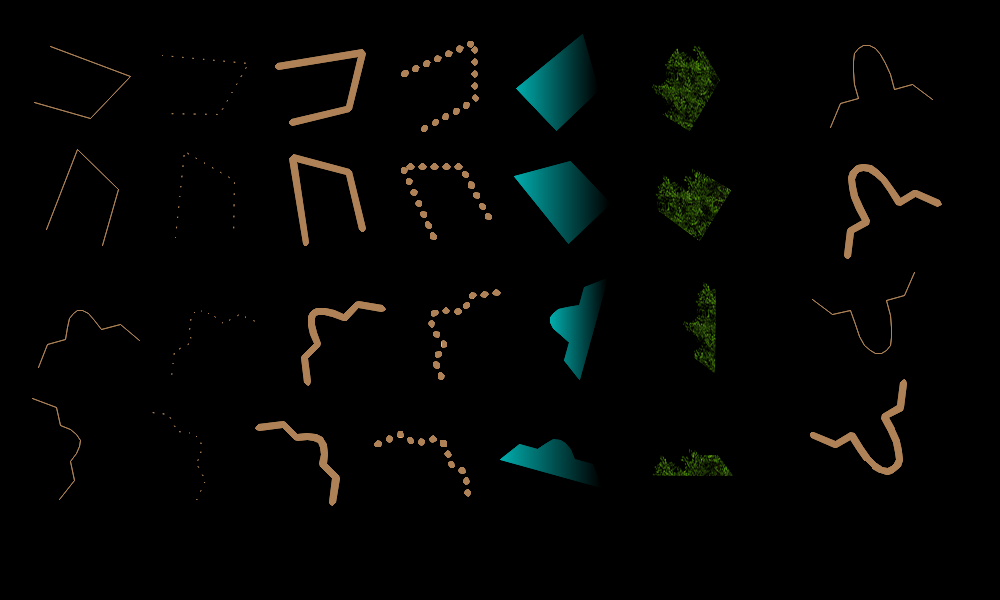
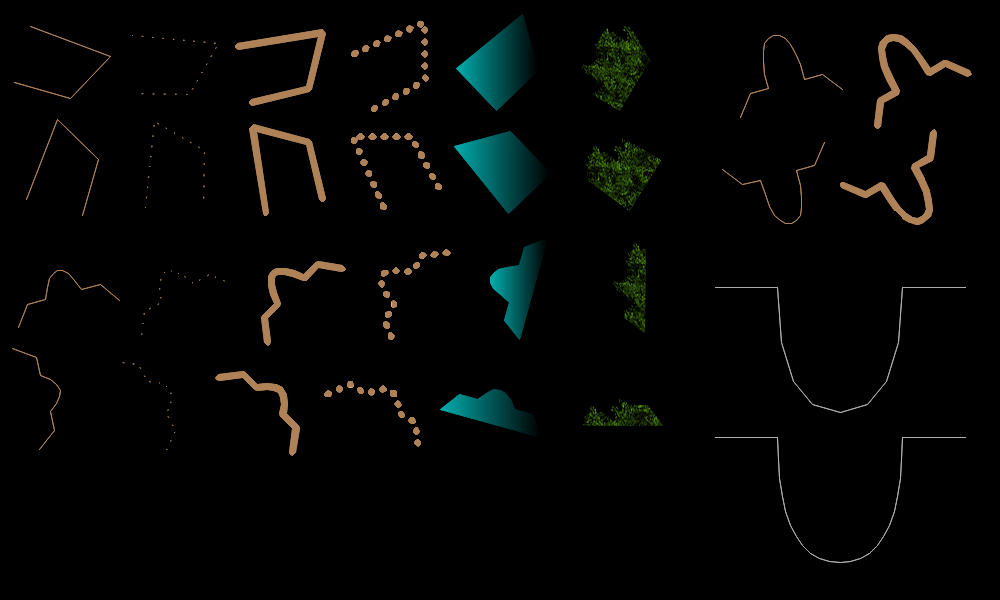
Improving Path2D

diff --git a/src/Pt-Gfx/tests/ImagePainterTest2_Draw_Path.cpp b/src/Pt-Gfx/tests/ImagePainterTest2_Draw_Path.cpp
@@ -6,7 +6,7 @@ static void testDrawPath_drawRow(
 {
     matrix2d.rotateAboutOrigin(15);
     matrix2d.push();
-    matrix2d.translate(80 + 120 * col, 80 + 120 * row);
+    matrix2d.translate(60 + 110 * col, 60 + 110 * row);
     ip2->setPen(penThinSolid);
     ip2->drawPath(path2d, matrix2d, false);
     matrix2d.pop();
@@ -14,7 +14,7 @@ static void testDrawPath_drawRow(
 
     matrix2d.rotateAboutOrigin(15);
     matrix2d.push();
-    matrix2d.translate(80 + 120 * col, 80 + 120 * row);
+    matrix2d.translate(60 + 110 * col, 60 + 110 * row);
     ip2->setPen(penThinDot);
     ip2->drawPath(path2d, matrix2d, false);
     matrix2d.pop();
@@ -22,7 +22,7 @@ static void testDrawPath_drawRow(
 
     matrix2d.rotateAboutOrigin(15);
     matrix2d.push();
-    matrix2d.translate(80 + 120 * col, 80 + 120 * row);
+    matrix2d.translate(60 + 110 * col, 60 + 110 * row);
     ip2->setPen(penThickSolid);
     ip2->drawPath(path2d, matrix2d, false);
     matrix2d.pop();
@@ -30,7 +30,7 @@ static void testDrawPath_drawRow(
 
     matrix2d.rotateAboutOrigin(15);
     matrix2d.push();
-    matrix2d.translate(80 + 120 * col, 80 + 120 * row);
+    matrix2d.translate(60 + 110 * col, 60 + 110 * row);
     ip2->setPen(penThickDot);
     ip2->drawPath(path2d, matrix2d, false);
     matrix2d.pop();
@@ -38,7 +38,7 @@ static void testDrawPath_drawRow(
 
     matrix2d.rotateAboutOrigin(15);
     matrix2d.push();
-    matrix2d.translate(80 + 120 * col, 80 + 120 * row);
+    matrix2d.translate(60 + 110 * col, 60 + 110 * row);
     ip2->setBrush(brush1);
     ip2->fillPath(path2d, matrix2d);
     matrix2d.pop();
@@ -46,7 +46,7 @@ static void testDrawPath_drawRow(
 
     matrix2d.rotateAboutOrigin(15);
     matrix2d.push();
-    matrix2d.translate(80 + 120 * col, 80 + 120 * row);
+    matrix2d.translate(60 + 110 * col, 60 + 110 * row);
     ip2->setBrush(brush2);
     ip2->fillPath(path2d, matrix2d);
     matrix2d.pop();
@@ -61,19 +61,18 @@ static void testDrawPath_drawCol(
 {
     matrix2d.rotateAboutOrigin(15);
     matrix2d.push();
-    matrix2d.translate(150 + 120 * col, 70 + 120 * row);
+    matrix2d.translate(60 + 120 * col, 60 + 120 * row);
     ip2->setPen(penThinSolid);
     ip2->drawPath(path2d, matrix2d, false);
     matrix2d.pop();
-    ++row;
+    ++col;
 
     matrix2d.rotateAboutOrigin(15);
     matrix2d.push();
-    matrix2d.translate(150 + 120 * col, 70 + 120 * row);
+    matrix2d.translate(60 + 120 * col, 60 + 120 * row);
     ip2->setPen(penThickSolid);
     ip2->drawPath(path2d, matrix2d, false);
     matrix2d.pop();
-    ++row;
 }
 
 static void testDrawPath(const char* title, Image& image, Painter& painter, const Brush& brush1, const Brush& brush2)
@@ -144,9 +143,9 @@ static void testDrawPath(const char* title, Image& image, Painter& painter, cons
     // Fourth row
     testDrawPath_drawRow(ip2, matrix2d, path2d, row, col, penThinSolid, penThinDot, penThickSolid, penThickDot, brush1, brush2);
 
+    //
     // Rightmost part of the image
-    row = 0;
-    col = 6;
+    //
 
     // Create a new path
     path2d.clear    ();
@@ -162,6 +161,9 @@ static void testDrawPath(const char* title, Image& image, Painter& painter, cons
     matrix2d.identity();
     matrix2d.translate(-50, -25);
     matrix2d.scaleAboutOrigin(0.75f, 1.0f);
+
+    row = 0;
+    col = 6;
 
     testDrawPath_drawCol(ip2, matrix2d, path2d, row, col, penThinSolid, penThickSolid);
 
@@ -180,7 +182,41 @@ static void testDrawPath(const char* title, Image& image, Painter& painter, cons
     matrix2d.translate(-50, -25);
     matrix2d.scaleAboutOrigin(0.75f, 1.0f);
 
+    row = 1;
+    col = 6;
+
     testDrawPath_drawCol(ip2, matrix2d, path2d, row, col, penThinSolid, penThickSolid);
+
+    //
+    // The effect of smoothness
+    //
+    row = 2;
+    col = 6;
+
+    path2d.clear    ();
+    path2d.beginPath();
+    path2d.moveTo   (10.0, 2.0      ); // CCW
+    path2d.lineTo   ( 7.5, 2.0      );
+    path2d.arcTo    ( 2.5, 2.0, -5.0);
+    path2d.lineTo   ( 0.0, 2.0      );
+    path2d.endPath  ();
+
+    matrix2d.identity();
+    matrix2d.translate(-5.0, -2.5);
+    matrix2d.scaleAboutOrigin(25, 25);
+
+    matrix2d.push();
+    matrix2d.translate(60 + 130 * col, 150 * row);
+    ip2->setPen( Color::fromRgb8(255, 255, 255, 175) );
+    ip2->drawPath(path2d, matrix2d, false, 0);
+    matrix2d.pop();
+    ++row;
+
+    matrix2d.push();
+    matrix2d.translate(60 + 130 * col, 150 * row);
+    ip2->setPen( Color::fromRgb8(255, 255, 255, 175) );
+    ip2->drawPath(path2d, matrix2d, false, 20);
+    matrix2d.pop();
 
     sdlPreviewRGB888Buffer(title, image.data(), image.width(), image.height(), !!ip2);
 }

diff --git a/src/Pt-Gfx/tests/ImagePainterTest2_Benchmark.cpp b/src/Pt-Gfx/tests/ImagePainterTest2_Benchmark.cpp
@@ -309,14 +309,14 @@ static void doBenchmark(CompositionMode cm)
     // Path
     if(BENCHMARK_RESULT_HTML || BENCHMARK_PATH) {
         time1 = benchDrawPath<ImagePainter2, false>(BENCHMARK_LOOP_COUNT, bmBrushGradientH, bmBrushTextureT, cm, AntiAliasingMode::None);
-        std::clog << "    Path NOAA (NO RASTERISATION)     @ ImagePainter2 = " << std::setw(6) << time1 << std::endl;
+        std::clog << "    Path NOAA (28 SHAPES, NO RASTER) @ ImagePainter2 = " << std::setw(6) << time1 << std::endl;
         time2 = benchDrawPath<ImagePainter2, false>(BENCHMARK_LOOP_COUNT, bmBrushGradientH, bmBrushTextureT, cm, AntiAliasingMode::Standard);
-        std::clog << "    Path XWAA (NO RASTERISATION)     @ ImagePainter2 = " << std::setw(6) << time2
+        std::clog << "    Path XWAA (28 SHAPES, NO RASTER) @ ImagePainter2 = " << std::setw(6) << time2
                   << " (" << std::setw(6) << std::setprecision(3) << (time2 / time1) << ")" << std::setprecision(0) << std::endl;
         time1 = benchDrawPath<ImagePainter2, true >(BENCHMARK_LOOP_COUNT, bmBrushGradientH, bmBrushTextureT, cm, AntiAliasingMode::None);
-        std::clog << "    Path NOAA                        @ ImagePainter2 = " << std::setw(6) << time1 << std::endl;
+        std::clog << "    Path NOAA (28 SHAPES, /W RASTER) @ ImagePainter2 = " << std::setw(6) << time1 << std::endl;
         time2 = benchDrawPath<ImagePainter2, true >(BENCHMARK_LOOP_COUNT, bmBrushGradientH, bmBrushTextureT, cm, AntiAliasingMode::Standard);
-        std::clog << "    Path XWAA                        @ ImagePainter2 = " << std::setw(6) << time2
+        std::clog << "    Path XWAA (28 SHAPES, /W RASTER) @ ImagePainter2 = " << std::setw(6) << time2
                  << " (" << std::setw(6) << std::setprecision(3) << (time2 / time1) << ")" << std::setprecision(0) << std::endl;
         if(!BENCHMARK_RESULT_HTML) std::clog << std::endl;
     }

diff --git a/include/Pt/Gfx/ImagePainter2.h b/include/Pt/Gfx/ImagePainter2.h
@@ -106,6 +106,7 @@ class PT_GFX_API ImagePainter2 : public Painter
         // NOTE: The begin and end angle must move in counter-clockwise (CCW) direction or something wrong will be drawn!
         virtual void drawArc(const PointF& topLeft, const SizeF& size, float degBegin, float degEnd, const ArcMode& arcMode);
 
+        // NOTE: If you enlarge (scale-up) the shape, you may need to increase the "smoothness" factor as needed
         virtual void drawPath(const Path2D& path2d, const AffineMatrix2D& matrix2d, bool autoClose, Pt::uint8_t smoothness = 0);
 
         virtual void fillRect(const RectF& rect);
@@ -120,6 +121,7 @@ class PT_GFX_API ImagePainter2 : public Painter
         // NOTE: The begin and end angle must move in counter-clockwise (CCW) direction or something wrong will be drawn!
         virtual void fillArc(const PointF& topLeft, const SizeF& size, float degBegin, float degEnd, const ArcMode& arcMode);
 
+        // NOTE: If you enlarge (scale-up) the shape, you may need to increase the "smoothness" factor as needed
         virtual void fillPath(const Path2D& path2d, const AffineMatrix2D& matrix2d, Pt::uint8_t smoothness = 0);
 
     public:

diff --git a/src/Pt-Gfx/Path2D.cpp b/src/Pt-Gfx/Path2D.cpp
@@ -62,9 +62,9 @@ static inline void generateQuadraticBezierPoints(std::vector<PointF>& dst, doubl
     const double l3 = l1 + l2;
 
     // Determine the number of segments
-    if(!smoothness) smoothness = 1;
+    const Pt::int32_t mf = (Pt::int32_t) smoothness + 1;
 
-    Pt::int32_t nSegs = round(l3 * smoothness / 16) + 2;
+    Pt::int32_t nSegs = round(l3 * mf / 16) + 2;
     if(nSegs < 5) nSegs = 5;
 
     const double nSegs1i = 1.0 / (nSegs - 1);
